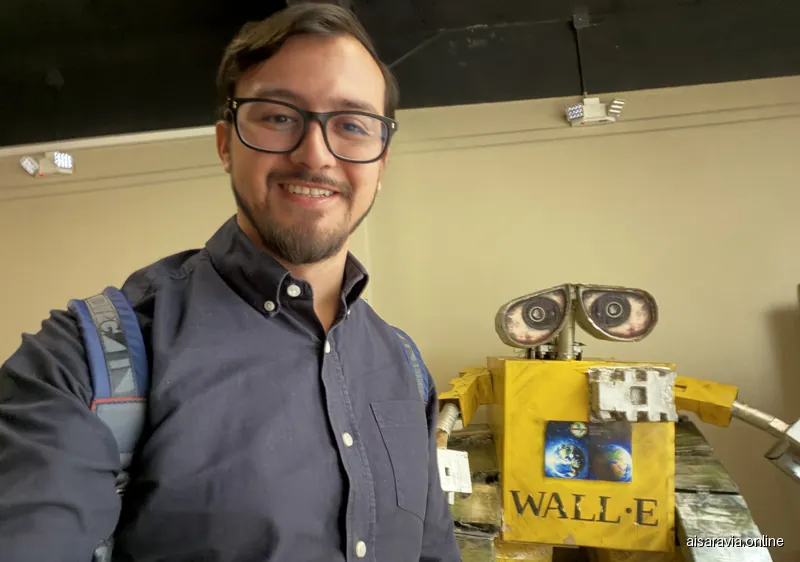
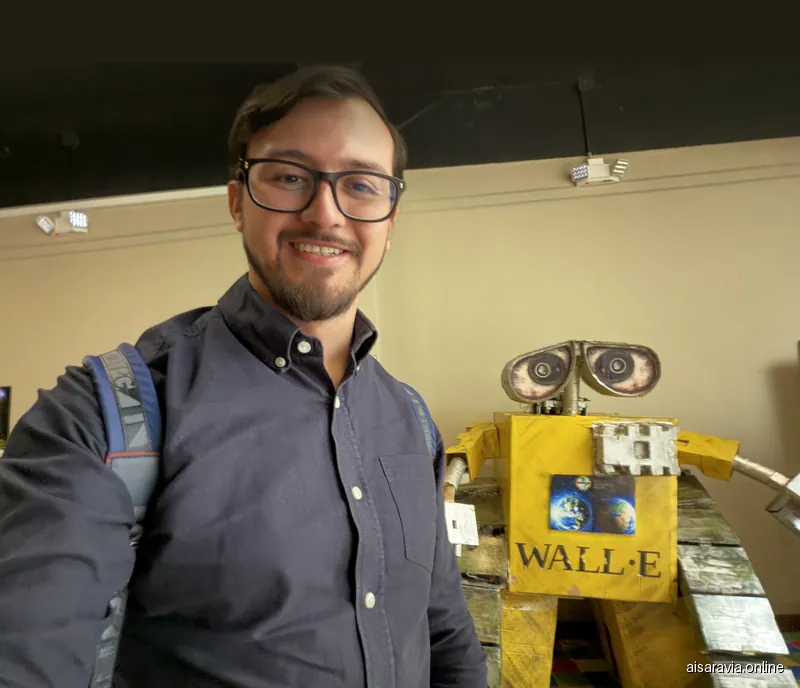
Hero dividido con retrato protagonista y editor alineado
- Retrato grande en la columna derecha, con aire sobre la cabeza y WALL·E completo.
- Editor y etiqueta de estado dentro de la foto, en esquinas opuestas con el mismo margen.
- Tablet: foto 4:3 a todo el ancho; móvil: sin editor y ubicación en su propia línea.
- preparar_fotos.py: opción --margen-superior para selfies muy justas.

diff --git a/styles.css b/styles.css
@@ -53,20 +53,26 @@ svg use { fill: currentColor; }
 .status-dot { display: inline-block; width: 7px; height: 7px; flex: none; border-radius: 50%; background: var(--mint-dark); box-shadow: 0 0 10px #62d99d6e; }
 
 /* Hero */
-.hero { position: relative; display: grid; grid-template-columns: 1.05fr .95fr; align-items: center; gap: 64px; min-height: 690px; padding-top: 40px; padding-bottom: 80px; }
+.hero { position: relative; display: grid; grid-template-columns: 1fr 1fr; align-items: center; gap: 72px; min-height: min(760px, calc(100svh - 86px)); padding-top: 32px; padding-bottom: 72px; }
 .hero::before { position: absolute; top: 78px; left: -230px; width: 600px; height: 600px; border-radius: 50%; background: #8fecc908; filter: blur(40px); content: ""; pointer-events: none; }
 .hero-copy { position: relative; z-index: 1; }
 .eyebrow { display: flex; align-items: center; gap: 10px; margin: 0; color: var(--muted); font-size: 11px; letter-spacing: .04em; }
 .eyebrow-line { display: inline-block; width: 23px; height: 1px; background: var(--mint); }
-.hero-identity { display: flex; align-items: center; gap: 24px; }
-.hero-portrait { position: relative; display: block; width: 300px; aspect-ratio: 800 / 562; flex: none; padding: 3px; border-radius: 16px; background: conic-gradient(from 210deg, var(--mint), var(--violet), var(--mint)); box-shadow: 0 18px 50px #0008, 0 0 40px #a3f7ce1f; }
-.hero-portrait img { width: 100%; height: 100%; border: 3px solid var(--bg); border-radius: 13px; object-fit: cover; user-select: none; -webkit-user-drag: none; -webkit-touch-callout: none; }
+.hero-visual { position: relative; z-index: 1; margin: 0; }
+.hero-portrait { position: relative; display: block; aspect-ratio: 800 / 688; padding: 2px; border-radius: 24px; background: linear-gradient(150deg, var(--mint), #a3f7ce22 40%, #b9a4ff22 60%, var(--violet)); box-shadow: 0 30px 80px #000a, 0 0 70px #a3f7ce14; }
+.hero-portrait img { width: 100%; height: 100%; border-radius: 22px; object-fit: cover; user-select: none; -webkit-user-drag: none; -webkit-touch-callout: none; }
 /* Capa transparente: "guardar imagen" y arrastrar apuntan a la capa, no al retrato. */
-.hero-portrait::after { position: absolute; inset: 0; border-radius: 16px; content: ""; }
-.hero-name { margin: 0 0 6px; font-size: 21px; font-weight: 700; letter-spacing: -.03em; }
-.hero-identity + h1 { margin-top: 30px; }
-.hero-identity .eyebrow-line { display: none; }
-.hero-identity .eyebrow { line-height: 1.6; }
+/* Fundido inferior para que la foto se integre con la página */
+.hero-portrait::after { position: absolute; inset: 2px; border-radius: 22px; background: linear-gradient(to top, #080b10cc, transparent 35%); content: ""; }
+/* El editor y la etiqueta de estado van dentro de la foto, en esquinas opuestas con el mismo margen */
+.code-chip { position: absolute; bottom: 18px; left: 18px; z-index: 2; padding: 12px 16px 14px; border: 1px solid #2c3a45; border-radius: 12px; background: #0b1016f2; backdrop-filter: blur(10px); box-shadow: 0 20px 50px #000a; }
+.code-chip .window-dots { display: flex; align-items: center; gap: 5px; margin: 0 0 8px; }
+.code-chip .window-dots span { margin-left: 10px; color: var(--quiet); font: 10px var(--mono); }
+.code-chip pre { margin: 0; color: #d3d8dc; font: 12px/1.75 var(--mono); }
+.status-pill { position: absolute; top: 18px; right: 18px; z-index: 2; display: inline-flex; align-items: center; gap: 8px; padding: 7px 12px; border: 1px solid #ffffff1f; border-radius: 99px; background: #080b10b3; backdrop-filter: blur(8px); color: #d6dde1; font: 11px var(--mono); }
+.hero-name { margin: 0 0 10px; font-size: clamp(22px, 2.2vw, 28px); font-weight: 700; letter-spacing: -.035em; }
+.hero-role { color: var(--mint) !important; }
+.hero-role + h1 { margin-top: 18px; }
 h1, h2, h3, p { margin-top: 0; }
 h1 { max-width: 640px; margin: 25px 0 21px; font-size: clamp(40px, 5.4vw, 64px); font-weight: 600; letter-spacing: -.065em; line-height: 1.13; }
 .headline-accent { color: var(--mint); }
@@ -453,7 +459,7 @@ h2 em { color: var(--mint); font-style: normal; }
 @media (max-width: 980px) {
   .hero { grid-template-columns: 1fr; gap: 38px; padding-top: 60px; }
   .hero-copy { max-width: 690px; }
-  .editor-card { width: 100%; transform: none; }
+  .hero-visual { order: -1; width: 100%; }
   .feature-content { grid-template-columns: 1fr 240px; gap: 25px; padding-inline: 25px; }
   .feature-stats { padding-left: 20px; }
   .about-grid { grid-template-columns: 1fr; gap: 40px; }
@@ -473,10 +479,7 @@ h2 em { color: var(--mint); font-style: normal; }
   .main-nav { gap: 16px; font-size: 11px; }
   .top-actions { gap: 10px; }
   .hero { min-height: auto; gap: 34px; padding-top: 48px; padding-bottom: 64px; }
-  .hero-identity { flex-direction: column; align-items: flex-start; gap: 16px; }
-  .hero-portrait { width: min(100%, 320px); }
   .hero-name { font-size: 18px; }
-  .hero-identity .eyebrow { font-size: 10px; }
   h1 { font-size: clamp(36px, 10vw, 52px); }
   .hero-intro { font-size: 15px; }
   .editor-body { min-height: 300px; padding-top: 19px; grid-template-columns: 34px 1fr; }
@@ -553,12 +556,13 @@ h2 em { color: var(--mint); font-style: normal; }
   ::view-transition-group(case-title) { animation-duration: 450ms; animation-timing-function: var(--ease); }
 
   /* Entrada del inicio: los elementos aparecen escalonados */
-  .hero-identity, .hero h1, .hero-intro, .hero-actions, .hero-proof, .editor-card { animation: rise .7s var(--ease) both; }
+  .hero-name, .hero-role, .hero h1, .hero-intro, .hero-actions, .hero-proof, .hero-visual, .code-chip { animation: rise .7s var(--ease) both; }
   .hero h1 { animation-delay: .08s; }
   .hero-intro { animation-delay: .16s; }
   .hero-actions { animation-delay: .24s; }
   .hero-proof { animation-delay: .32s; }
-  .editor-card { animation-delay: .28s; }
+  .hero-visual { animation-delay: .1s; }
+  .code-chip { animation-delay: .45s; }
 }
 @keyframes vt-out { to { opacity: 0; translate: 0 -8px; } }
 @keyframes vt-in { from { opacity: 0; translate: 0 12px; } }
@@ -596,11 +600,25 @@ h2 em { color: var(--mint); font-style: normal; }
   .tech-list li:hover { transform: translateY(-2px); }
   .tech-list li { transition: transform var(--dur-fast) var(--ease), border-color var(--dur-fast), color var(--dur-fast); }
   .hero-portrait { transition: transform var(--dur) var(--ease), box-shadow var(--dur) var(--ease); }
-  .hero-portrait:hover { transform: rotate(-1.5deg) scale(1.02); box-shadow: 0 22px 60px #0009, 0 0 50px #a3f7ce33; }
+  .hero-portrait:hover { transform: rotate(-.8deg) scale(1.015); box-shadow: 0 22px 60px #0009, 0 0 50px #a3f7ce33; }
 }
 @media (prefers-reduced-motion: reduce) {
   .spotlight::before, .button-primary::after { display: none; }
 }
-.hero-role { color: var(--mint) !important; white-space: nowrap; }
-.hero-location { margin: 4px 0 0; color: var(--muted); font: 11px var(--mono); letter-spacing: .04em; }
-@media (max-width: 520px) { .hero-role { white-space: normal; } }
+@media (max-width: 680px) {
+  .hero-visual { width: 100%; margin-bottom: 6px; }
+  .hero-role .eyebrow-line { display: none; }
+  .hero-portrait, .hero-portrait img { border-radius: 18px; }
+  .hero-portrait::after { border-radius: 16px; }
+  .code-chip { display: none; }
+  .status-pill { top: 12px; right: 12px; font-size: 10px; }
+}
+@media (min-width: 681px) and (max-width: 980px) {
+  .hero-portrait { aspect-ratio: 4 / 3; }
+  .hero-portrait img { object-position: 50% 35%; }
+}
+@media (max-width: 680px) {
+  .role-sep { display: none; }
+  .hero-role { flex-wrap: wrap; row-gap: 4px; }
+  .role-loc { flex-basis: 100%; color: var(--muted); }
+}

diff --git a/index.html b/index.html
@@ -23,7 +23,7 @@
         "name": "Alexander Saravia",
         "url": "https://aisaravia.online/",
         "jobTitle": "Principal AI Architect",
-        "image": "https://aisaravia.online/assets/img/retrato/alexander-saravia.webp?v=walle",
+        "image": "https://aisaravia.online/assets/img/retrato/alexander-saravia.webp",
         "award": "FELABAN Digital Innovation Award 2026 — Innovation with AI, 1st place in Latin America",
         "sameAs": [
           "https://github.com/basaravia",
@@ -73,14 +73,8 @@
       <main id="main">
         <section class="hero section-wrap" id="top">
           <div class="hero-copy">
-            <div class="hero-identity">
-              <span class="hero-portrait protected-media"><img src="assets/img/retrato/alexander-saravia.webp?v=walle" alt="Alexander Saravia junto a una réplica de WALL·E" width="800" height="562" fetchpriority="high" draggable="false"></span>
-              <div>
-                <p class="hero-name">Alexander Saravia</p>
-                <p class="eyebrow hero-role">Tech Lead · Principal AI Architect</p>
-                <p class="hero-location">Quito, Ecuador</p>
-              </div>
-            </div>
+            <p class="hero-name">Alexander Saravia</p>
+            <p class="eyebrow hero-role"><span class="eyebrow-line"></span>Tech Lead · Principal AI Architect<span class="role-sep"> · </span><span class="role-loc">Quito, Ecuador</span></p>
             <h1><span data-es="Diseño inteligencia." data-en="I design intelligence.">Diseño inteligencia.</span><br><span class="headline-accent" data-es="La construyo para el mundo real." data-en="I build it for the real world.">La construyo para el mundo real.</span></h1>
             <p class="hero-intro" data-es="Llevo la IA generativa y agéntica del prototipo a producción a escala nacional, y diseño la arquitectura y el gobierno que le permiten crecer con seguridad en toda la organización. Estrategia, arquitectura y código en la misma conversación." data-en="I take generative and agentic AI from prototype to production at national scale, and design the architecture and governance that let it grow safely across a business. Strategy, architecture, and code in the same conversation.">Llevo la IA generativa y agéntica del prototipo a producción a escala nacional, y diseño la arquitectura y el gobierno que le permiten crecer con seguridad en toda la organización. Estrategia, arquitectura y código en la misma conversación.</p>
             <div class="hero-actions">
@@ -95,35 +89,18 @@
             </ul>
           </div>
 
-          <div class="editor-card" aria-label="Fragmento de perfil de Alexander">
-            <div class="editor-titlebar">
-              <div class="window-dots" aria-hidden="true"><i></i><i></i><i></i></div>
-              <div class="editor-tab"><span class="file-glyph"><svg class='' aria-hidden='true'><use href='assets/icons.svg#i-code'/></svg></span> alexander.ts <span class="tab-close">×</span></div>
-              <span class="editor-kebab" aria-hidden="true">···</span>
-            </div>
-            <div class="editor-body">
-              <div class="editor-gutter" aria-hidden="true">01<br>02<br>03<br>04<br>05<br>06<br>07<br>08<br>09<br>10<br>11<br>12<br>13<br>14<br>15</div>
+          <figure class="hero-visual">
+            <span class="hero-portrait protected-media"><img src="assets/img/retrato/alexander-saravia.webp?v=walle2" alt="Alexander Saravia junto a una réplica de WALL·E" width="800" height="688" fetchpriority="high" draggable="false"></span>
+            <div class="code-chip" aria-hidden="true">
+              <div class="window-dots"><i></i><i></i><i></i><span>alexander.ts</span></div>
               <pre><code><span class="code-purple">const</span> <span class="code-blue">alexander</span> = {
   <span class="code-cyan">role</span>: <span class="code-green">"Tech Lead · AI Architect"</span>,
-  <span class="code-cyan">focus</span>: [
-    <span class="code-green">"Generative &amp; Agentic AI"</span>,
-    <span class="code-green">"Enterprise architecture"</span>,
-    <span class="code-green">"AI governance &amp; security"</span>,
-  ],
-  <span class="code-cyan">from</span>: <span class="code-green">"prototype"</span>,
-  <span class="code-cyan">to</span>: <span class="code-green">"production"</span>,
+  <span class="code-cyan">from</span>: <span class="code-green">"prototype"</span>, <span class="code-cyan">to</span>: <span class="code-green">"production"</span>,
   <span class="code-cyan">offHours</span>: [<span class="code-green">"metal"</span>, <span class="code-green">"XC off-road"</span>],
-  <span class="code-cyan">status</span>: <span class="code-orange">"building"</span>,
-};
-
-<span class="code-purple">export default</span> alexander;<span class="cursor" aria-hidden="true"></span></code></pre>
+};<span class="cursor"></span></code></pre>
             </div>
-            <div class="editor-status">
-              <span><span class="status-dot" aria-hidden="true"></span> <span data-es="Compilado sin errores" data-en="Compiled with no errors">Compilado sin errores</span></span>
-              <span>UTF-8&nbsp; · &nbsp;TypeScript</span>
-            </div>
-            <div class="editor-glow" aria-hidden="true"></div>
-          </div>
+            <figcaption class="status-pill"><span class="status-dot" aria-hidden="true"></span><span data-es="Construyendo con IA agéntica" data-en="Building with agentic AI">Construyendo con IA agéntica</span></figcaption>
+          </figure>
         </section>
 
         <section class="logo-strip" aria-label="Tecnologías con las que trabajo">

diff --git a/tools/preparar_fotos.py b/tools/preparar_fotos.py
@@ -5,6 +5,7 @@ Uso:
   python tools/preparar_fotos.py fotos_entrada/IMG_1234.HEIC charlas/2026-python-quito-owasp
   python tools/preparar_fotos.py foto.HEIC eventos/2024-dama --recortar 0,0.1,1,0.9 --ocultar 0.6,0.2,0.9,0.4
   python tools/preparar_fotos.py foto.HEIC --previa /tmp/previa.jpg     # vista con cuadrícula, no publica
+  python tools/preparar_fotos.py foto.HEIC retrato/x --margen-superior 0.12  # aire sobre la cabeza
 
 Las coordenadas son fracciones del ancho y del alto (x0,y0,x1,y1, de 0 a 1) sobre la foto ya girada.
 --recortar se aplica primero; las zonas de --ocultar se miden sobre el resultado del recorte y se
@@ -65,6 +66,17 @@ def hide(image, area):
     image.paste(small.resize(patch.size, Image.NEAREST).filter(ImageFilter.GaussianBlur(block // 2)), box)
 
 
+def headroom(image, fraction):
+    """Agrega aire arriba con el color del borde superior, fundido hacia la foto (para selfies muy justas)."""
+    extra = int(image.height * fraction)
+    band = image.crop((0, 0, image.width, max(1, image.height // 40))).resize((1, 1), Image.BOX).getpixel((0, 0))
+    canvas = Image.new("RGB", (image.width, image.height + extra), band)
+    canvas.paste(image, (0, extra))
+    fade = Image.linear_gradient("L").resize((image.width, extra * 2))
+    canvas.paste(Image.new("RGB", (image.width, extra * 2), band), (0, extra // 2), fade.transpose(Image.FLIP_TOP_BOTTOM).point(lambda v: v * 0.9))
+    return canvas
+
+
 def grid(image):
     draw = ImageDraw.Draw(image)
     font = ImageFont.load_default(size=max(14, image.width // 50))
@@ -92,6 +104,7 @@ def main():
     parser.add_argument("target", nargs="?")
     parser.add_argument("--recortar", type=region)
     parser.add_argument("--ocultar", type=region, action="append", default=[])
+    parser.add_argument("--margen-superior", type=float, default=0, help="fracción de alto a agregar sobre la foto (0-0.3)")
     parser.add_argument("--previa", help="escribe una vista con cuadrícula en esta ruta (fuera del repo) y no publica")
     args = parser.parse_args()
 
@@ -100,6 +113,8 @@ def main():
         image = image.crop(pixels(image, args.recortar))
     for area in args.ocultar:
         hide(image, area)
+    if args.margen_superior:
+        image = headroom(image, min(args.margen_superior, 0.3))
     image.thumbnail((MAX_SIDE, MAX_SIDE))
 
     if args.previa:
